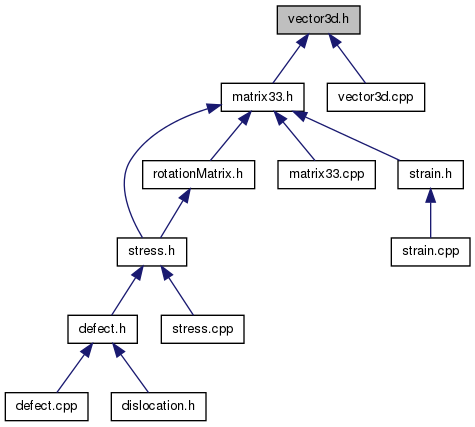
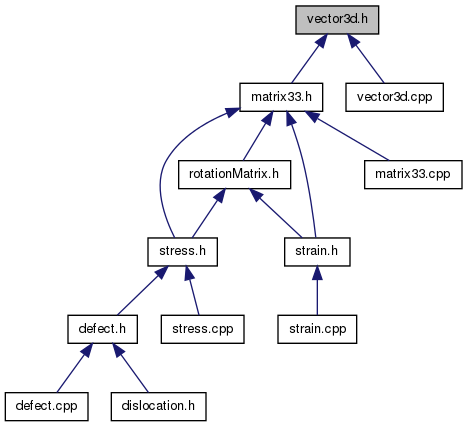
Included RotationMatrix class definition for strain.h

diff --git a/doc/html/d9/df8/vector3d_8h.html b/doc/html/d9/df8/vector3d_8h.html
@@ -88,7 +88,7 @@ This graph shows which files directly or indirectly include this file:</div>
 <div class="dyncontent">
 <div class="center"><img src="../../d3/dd7/vector3d_8h__dep__incl.png" border="0" usemap="#vector3d_8hdep" alt=""/></div>
 <map name="vector3d_8hdep" id="vector3d_8hdep">
-<area shape="rect" id="node3" href="../../db/d46/matrix33_8h.html" title="Definition of the Matrix33 class." alt="" coords="221,83,304,112"/><area shape="rect" id="node24" href="../../d7/d35/vector3d_8cpp.html" title="Definition of member functions and operators of the Vector3d class." alt="" coords="328,83,424,112"/><area shape="rect" id="node5" href="../../d2/d50/stress_8h.html" title="Definition of the Stress class." alt="" coords="117,237,187,267"/><area shape="rect" id="node15" href="../../da/d76/rotationMatrix_8h.html" title="Definition of the RotationMatrix class." alt="" coords="143,160,255,189"/><area shape="rect" id="node18" href="../../d8/d8e/matrix33_8cpp.html" title="Definition of the member functions and operators of the Matrix33 class." alt="" coords="279,160,375,189"/><area shape="rect" id="node20" href="../../df/dc2/strain_8h.html" title="Definition of the Strain class." alt="" coords="399,160,463,189"/><area shape="rect" id="node7" href="../../df/d55/defect_8h.html" title="Definition of the Defect class." alt="" coords="68,315,137,344"/><area shape="rect" id="node13" href="../../d4/d58/stress_8cpp.html" title="Definition of the member functions if the Stress class." alt="" coords="161,315,244,344"/><area shape="rect" id="node9" href="../../dd/def/defect_8cpp.html" title="Definition of member functions of the Defect class." alt="" coords="5,392,88,421"/><area shape="rect" id="node11" href="../../de/df3/dislocation_8h.html" title="Definition of the Dislocation class." alt="" coords="112,392,205,421"/><area shape="rect" id="node22" href="../../d7/db1/strain_8cpp.html" title="Definition of the member functions if the Strain class." alt="" coords="392,237,469,267"/></map>
+<area shape="rect" id="node3" href="../../db/d46/matrix33_8h.html" title="Definition of the Matrix33 class." alt="" coords="240,83,323,112"/><area shape="rect" id="node25" href="../../d7/d35/vector3d_8cpp.html" title="Definition of member functions and operators of the Vector3d class." alt="" coords="347,83,443,112"/><area shape="rect" id="node5" href="../../d2/d50/stress_8h.html" title="Definition of the Stress class." alt="" coords="148,237,217,267"/><area shape="rect" id="node15" href="../../da/d76/rotationMatrix_8h.html" title="Definition of the RotationMatrix class." alt="" coords="179,160,291,189"/><area shape="rect" id="node18" href="../../df/dc2/strain_8h.html" title="Definition of the Strain class." alt="" coords="285,237,349,267"/><area shape="rect" id="node22" href="../../d8/d8e/matrix33_8cpp.html" title="Definition of the member functions and operators of the Matrix33 class." alt="" coords="365,160,461,189"/><area shape="rect" id="node7" href="../../df/d55/defect_8h.html" title="Definition of the Defect class." alt="" coords="68,315,137,344"/><area shape="rect" id="node13" href="../../d4/d58/stress_8cpp.html" title="Definition of the member functions if the Stress class." alt="" coords="161,315,244,344"/><area shape="rect" id="node9" href="../../dd/def/defect_8cpp.html" title="Definition of member functions of the Defect class." alt="" coords="5,392,88,421"/><area shape="rect" id="node11" href="../../de/df3/dislocation_8h.html" title="Definition of the Dislocation class." alt="" coords="112,392,205,421"/><area shape="rect" id="node20" href="../../d7/db1/strain_8cpp.html" title="Definition of the member functions if the Strain class." alt="" coords="279,315,356,344"/></map>
 </div>
 </div>
 <p><a href="../../d9/df8/vector3d_8h_source.html">Go to the source code of this file.</a></p>
@@ -124,7 +124,7 @@ Data Structures</h2></td></tr>
 
 
 <hr class="footer"/><address class="footer"><small>
-Generated on Fri Apr 26 2013 13:39:19 for DD2.5D by &#160;<a href="http://www.doxygen.org/index.html">
+Generated on Fri Apr 26 2013 13:42:25 for DD2.5D by &#160;<a href="http://www.doxygen.org/index.html">
 <img class="footer" src="../../doxygen.png" alt="doxygen"/>
 </a> 1.7.6.1
 </small></address>

diff --git a/doc/html/db/d46/matrix33_8h.html b/doc/html/db/d46/matrix33_8h.html
@@ -96,7 +96,7 @@ This graph shows which files directly or indirectly include this file:</div>
 <div class="dyncontent">
 <div class="center"><img src="../../dd/d84/matrix33_8h__dep__incl.png" border="0" usemap="#matrix33_8hdep" alt=""/></div>
 <map name="matrix33_8hdep" id="matrix33_8hdep">
-<area shape="rect" id="node3" href="../../d2/d50/stress_8h.html" title="Definition of the Stress class." alt="" coords="117,160,187,189"/><area shape="rect" id="node13" href="../../da/d76/rotationMatrix_8h.html" title="Definition of the RotationMatrix class." alt="" coords="143,83,255,112"/><area shape="rect" id="node16" href="../../d8/d8e/matrix33_8cpp.html" title="Definition of the member functions and operators of the Matrix33 class." alt="" coords="279,83,375,112"/><area shape="rect" id="node18" href="../../df/dc2/strain_8h.html" title="Definition of the Strain class." alt="" coords="399,83,463,112"/><area shape="rect" id="node5" href="../../df/d55/defect_8h.html" title="Definition of the Defect class." alt="" coords="68,237,137,267"/><area shape="rect" id="node11" href="../../d4/d58/stress_8cpp.html" title="Definition of the member functions if the Stress class." alt="" coords="161,237,244,267"/><area shape="rect" id="node7" href="../../dd/def/defect_8cpp.html" title="Definition of member functions of the Defect class." alt="" coords="5,315,88,344"/><area shape="rect" id="node9" href="../../de/df3/dislocation_8h.html" title="Definition of the Dislocation class." alt="" coords="112,315,205,344"/><area shape="rect" id="node20" href="../../d7/db1/strain_8cpp.html" title="Definition of the member functions if the Strain class." alt="" coords="392,160,469,189"/></map>
+<area shape="rect" id="node3" href="../../d2/d50/stress_8h.html" title="Definition of the Stress class." alt="" coords="148,160,217,189"/><area shape="rect" id="node13" href="../../da/d76/rotationMatrix_8h.html" title="Definition of the RotationMatrix class." alt="" coords="179,83,291,112"/><area shape="rect" id="node16" href="../../df/dc2/strain_8h.html" title="Definition of the Strain class." alt="" coords="285,160,349,189"/><area shape="rect" id="node20" href="../../d8/d8e/matrix33_8cpp.html" title="Definition of the member functions and operators of the Matrix33 class." alt="" coords="365,83,461,112"/><area shape="rect" id="node5" href="../../df/d55/defect_8h.html" title="Definition of the Defect class." alt="" coords="68,237,137,267"/><area shape="rect" id="node11" href="../../d4/d58/stress_8cpp.html" title="Definition of the member functions if the Stress class." alt="" coords="161,237,244,267"/><area shape="rect" id="node7" href="../../dd/def/defect_8cpp.html" title="Definition of member functions of the Defect class." alt="" coords="5,315,88,344"/><area shape="rect" id="node9" href="../../de/df3/dislocation_8h.html" title="Definition of the Dislocation class." alt="" coords="112,315,205,344"/><area shape="rect" id="node18" href="../../d7/db1/strain_8cpp.html" title="Definition of the member functions if the Strain class." alt="" coords="279,237,356,267"/></map>
 </div>
 </div>
 <p><a href="../../db/d46/matrix33_8h_source.html">Go to the source code of this file.</a></p>
@@ -132,7 +132,7 @@ Data Structures</h2></td></tr>
 
 
 <hr class="footer"/><address class="footer"><small>
-Generated on Fri Apr 26 2013 13:39:19 for DD2.5D by &#160;<a href="http://www.doxygen.org/index.html">
+Generated on Fri Apr 26 2013 13:42:25 for DD2.5D by &#160;<a href="http://www.doxygen.org/index.html">
 <img class="footer" src="../../doxygen.png" alt="doxygen"/>
 </a> 1.7.6.1
 </small></address>

diff --git a/doc/html/d2/d50/stress_8h_source.html b/doc/html/d2/d50/stress_8h_source.html
@@ -125,7 +125,7 @@ var searchBox = new SearchBox("searchBox", "../../search",false,'Search');
 
 
 <hr class="footer"/><address class="footer"><small>
-Generated on Fri Apr 26 2013 13:39:19 for DD2.5D by &#160;<a href="http://www.doxygen.org/index.html">
+Generated on Fri Apr 26 2013 13:42:25 for DD2.5D by &#160;<a href="http://www.doxygen.org/index.html">
 <img class="footer" src="../../doxygen.png" alt="doxygen"/>
 </a> 1.7.6.1
 </small></address>

diff --git a/doc/html/d4/d58/stress_8cpp_source.html b/doc/html/d4/d58/stress_8cpp_source.html
@@ -171,7 +171,7 @@ var searchBox = new SearchBox("searchBox", "../../search",false,'Search');
 
 
 <hr class="footer"/><address class="footer"><small>
-Generated on Fri Apr 26 2013 13:39:19 for DD2.5D by &#160;<a href="http://www.doxygen.org/index.html">
+Generated on Fri Apr 26 2013 13:42:25 for DD2.5D by &#160;<a href="http://www.doxygen.org/index.html">
 <img class="footer" src="../../doxygen.png" alt="doxygen"/>
 </a> 1.7.6.1
 </small></address>

diff --git a/doc/html/d7/d35/vector3d_8cpp_source.html b/doc/html/d7/d35/vector3d_8cpp_source.html
@@ -283,7 +283,7 @@ var searchBox = new SearchBox("searchBox", "../../search",false,'Search');
 
 
 <hr class="footer"/><address class="footer"><small>
-Generated on Fri Apr 26 2013 13:39:19 for DD2.5D by &#160;<a href="http://www.doxygen.org/index.html">
+Generated on Fri Apr 26 2013 13:42:25 for DD2.5D by &#160;<a href="http://www.doxygen.org/index.html">
 <img class="footer" src="../../doxygen.png" alt="doxygen"/>
 </a> 1.7.6.1
 </small></address>

diff --git a/doc/html/d8/d8e/matrix33_8cpp_source.html b/doc/html/d8/d8e/matrix33_8cpp_source.html
@@ -387,7 +387,7 @@ var searchBox = new SearchBox("searchBox", "../../search",false,'Search');
 
 
 <hr class="footer"/><address class="footer"><small>
-Generated on Fri Apr 26 2013 13:39:19 for DD2.5D by &#160;<a href="http://www.doxygen.org/index.html">
+Generated on Fri Apr 26 2013 13:42:25 for DD2.5D by &#160;<a href="http://www.doxygen.org/index.html">
 <img class="footer" src="../../doxygen.png" alt="doxygen"/>
 </a> 1.7.6.1
 </small></address>

diff --git a/doc/html/d9/df8/vector3d_8h_source.html b/doc/html/d9/df8/vector3d_8h_source.html
@@ -135,7 +135,7 @@ var searchBox = new SearchBox("searchBox", "../../search",false,'Search');
 
 
 <hr class="footer"/><address class="footer"><small>
-Generated on Fri Apr 26 2013 13:39:19 for DD2.5D by &#160;<a href="http://www.doxygen.org/index.html">
+Generated on Fri Apr 26 2013 13:42:25 for DD2.5D by &#160;<a href="http://www.doxygen.org/index.html">
 <img class="footer" src="../../doxygen.png" alt="doxygen"/>
 </a> 1.7.6.1
 </small></address>

diff --git a/doc/html/db/d46/matrix33_8h_source.html b/doc/html/db/d46/matrix33_8h_source.html
@@ -139,7 +139,7 @@ var searchBox = new SearchBox("searchBox", "../../search",false,'Search');
 
 
 <hr class="footer"/><address class="footer"><small>
-Generated on Fri Apr 26 2013 13:39:19 for DD2.5D by &#160;<a href="http://www.doxygen.org/index.html">
+Generated on Fri Apr 26 2013 13:42:25 for DD2.5D by &#160;<a href="http://www.doxygen.org/index.html">
 <img class="footer" src="../../doxygen.png" alt="doxygen"/>
 </a> 1.7.6.1
 </small></address>

diff --git a/doc/html/dd/def/defect_8cpp_source.html b/doc/html/dd/def/defect_8cpp_source.html
@@ -173,7 +173,7 @@ var searchBox = new SearchBox("searchBox", "../../search",false,'Search');
 
 
 <hr class="footer"/><address class="footer"><small>
-Generated on Fri Apr 26 2013 13:39:19 for DD2.5D by &#160;<a href="http://www.doxygen.org/index.html">
+Generated on Fri Apr 26 2013 13:42:25 for DD2.5D by &#160;<a href="http://www.doxygen.org/index.html">
 <img class="footer" src="../../doxygen.png" alt="doxygen"/>
 </a> 1.7.6.1
 </small></address>

diff --git a/doc/html/df/d55/defect_8h_source.html b/doc/html/df/d55/defect_8h_source.html
@@ -139,7 +139,7 @@ var searchBox = new SearchBox("searchBox", "../../search",false,'Search');
 
 
 <hr class="footer"/><address class="footer"><small>
-Generated on Fri Apr 26 2013 13:39:19 for DD2.5D by &#160;<a href="http://www.doxygen.org/index.html">
+Generated on Fri Apr 26 2013 13:42:25 for DD2.5D by &#160;<a href="http://www.doxygen.org/index.html">
 <img class="footer" src="../../doxygen.png" alt="doxygen"/>
 </a> 1.7.6.1
 </small></address>

diff --git a/doc/html/graph_legend.html b/doc/html/graph_legend.html
@@ -155,7 +155,7 @@ A yellow dashed arrow denotes a relation between a template instance and the tem
 
 
 <hr class="footer"/><address class="footer"><small>
-Generated on Fri Apr 26 2013 13:39:19 for DD2.5D by &#160;<a href="http://www.doxygen.org/index.html">
+Generated on Fri Apr 26 2013 13:42:25 for DD2.5D by &#160;<a href="http://www.doxygen.org/index.html">
 <img class="footer" src="doxygen.png" alt="doxygen"/>
 </a> 1.7.6.1
 </small></address>

diff --git a/doc/html/hierarchy.html b/doc/html/hierarchy.html
@@ -114,7 +114,7 @@ This inheritance list is sorted roughly, but not completely, alphabetically:</di
 
 
 <hr class="footer"/><address class="footer"><small>
-Generated on Fri Apr 26 2013 13:39:19 for DD2.5D by &#160;<a href="http://www.doxygen.org/index.html">
+Generated on Fri Apr 26 2013 13:42:25 for DD2.5D by &#160;<a href="http://www.doxygen.org/index.html">
 <img class="footer" src="doxygen.png" alt="doxygen"/>
 </a> 1.7.6.1
 </small></address>
